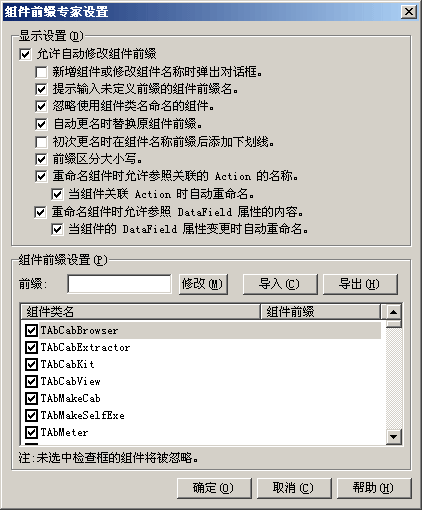
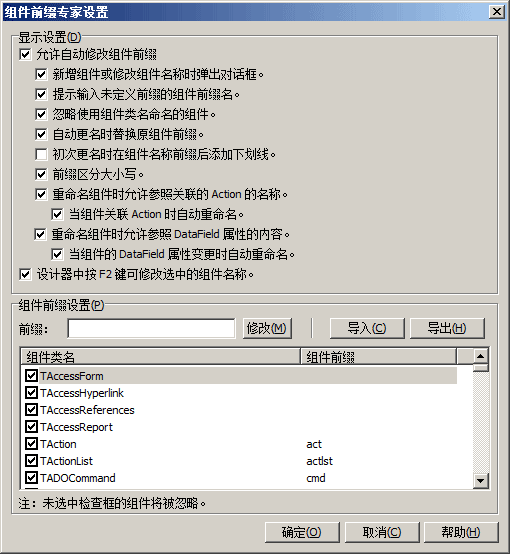
* [Prefix Wizard] Update Help and Language Items.

Changed region(s): [[0.0, 0.0, 1.0, 1.0]]

diff --git a/Help/CnWizards_ENU/wizards/prefixwizard.htm b/Help/CnWizards_ENU/wizards/prefixwizard.htm
@@ -229,6 +229,7 @@ Settings dialog of this wizard is as below:</p>
       <li><p><b>Auto Rename when Action Changed</b>: If checked and when the Action property of an unnamed component, or named but does not have a correct prefix, or has a prefix + digital, changed (except to nil), component name will be renamed to prefix + action name (without the action prefix).</p></li>
       <li><p><b>Use DataField as New Name if this Property Exists</b>: If checked and if the component has an DataField property, use the prefix + DataField value as the new name of this component.</p></li>
       <li><p><b>Auto Rename when DataField Changed</b>: If checked and when the DataField property of an unnamed component, or named but does not have a correct prefix, or has a prefix + digital, changed (except to ''), component name will be renamed to prefix + DataField value.</p></li>
+      <li><p><b>Use F2 Key to Rename Selected Component in Designer.</b>: If checked, we can use F2 Key in designer to rename selected component.</p></li>
     </ul>
   </li>
   <li> 
